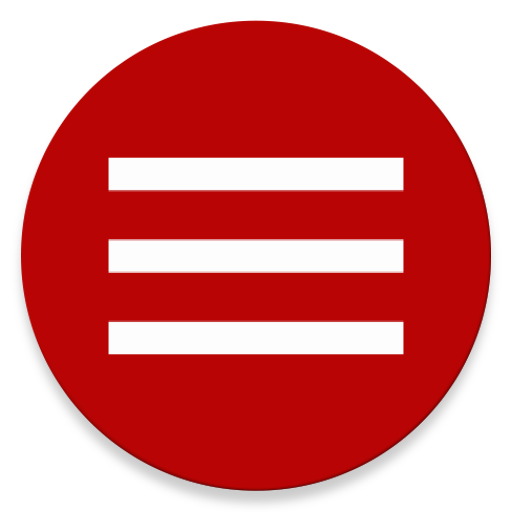
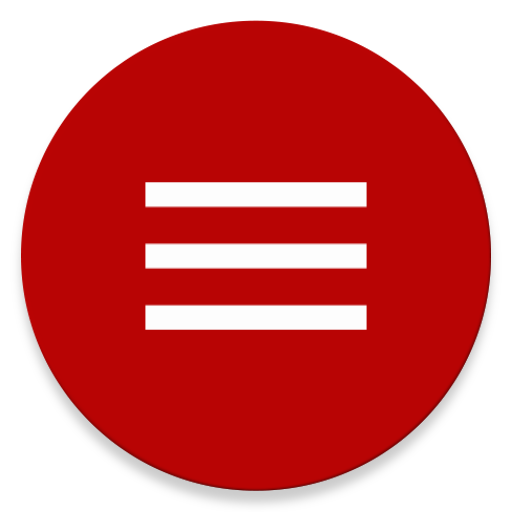
30  6.1.0       启动增加寿康宝鉴页面。       重新配置菜单等按钮图标。       修复属相不能保存BUG。       开关按钮。

Changed region(s): [[0.1875, 0.5938, 0.8125, 0.7188], [0.1875, 0.2812, 0.8125, 0.4062], [0.1875, 0.4688, 0.8125, 0.5312]]

diff --git a/app/src/main/java/com/wang17/religiouscalendar/activity/MainActivity.java b/app/src/main/java/com/wang17/religiouscalendar/activity/MainActivity.java
@@ -14,7 +14,6 @@ import android.graphics.Typeface;
 import android.os.Bundle;
 import android.os.Handler;
 import android.support.annotation.NonNull;
-import android.support.design.widget.FloatingActionButton;
 import android.support.design.widget.NavigationView;
 import android.support.v4.view.GravityCompat;
 import android.support.v4.widget.DrawerLayout;
@@ -85,7 +84,7 @@ import permissions.dispatcher.RuntimePermissions;
 public class MainActivity extends AppCompatActivity implements NavigationView.OnNavigationItemSelectedListener, View.OnClickListener, View.OnTouchListener {
 
     // 视图变量
-    private TextView textView_ganzhi, textView_nongli, textView_fo, button_today,buttonMonth, textViewChijie1, textViewChijie2;
+    private TextView textView_ganzhi, textViewSelectedDay, textView_fo, button_today,buttonMonth, textViewChijie1, textViewChijie2;
     private CalenderGridAdapter calendarAdapter;
     private ImageButton imageButton_leftMenu, imageButton_settting;
     private ImageView imageView_banner, imageView_welcome;
@@ -376,15 +375,15 @@ public class MainActivity extends AppCompatActivity implements NavigationView.On
 
             // button_today
             button_today = (TextView) findViewById(R.id.btnToday);
-//            button_today.setTypeface(fontGF);
+            button_today.setTypeface(fontGF);
             button_today.setOnClickListener(btnToday_OnClickListener);
 
             // 信息栏
 //            yearMonth = (TextView) findViewById(R.id.tvYearMonth);
 //            yangliBig = (TextView) findViewById(R.id.tvYangLiBig);
             buttonMonth = (TextView) findViewById(R.id.textView_select_month);
-//            selectMonth.setTypeface(fontGF);
-            buttonMonth.setText(currentMonth+1+"月");
+            buttonMonth.setTypeface(fontGF);
+            setButtonMonthText();
             buttonMonth.setOnClickListener(btnCurrentMonth_OnClickListener);
 
 
@@ -407,7 +406,8 @@ public class MainActivity extends AppCompatActivity implements NavigationView.On
                 }
             });
 
-            textView_nongli = (TextView) findViewById(R.id.textView_selected_day);
+            textViewSelectedDay = (TextView) findViewById(R.id.textView_selected_day);
+//            textViewSelectedDay.setTypeface(fontGF);
             textView_ganzhi = (TextView) findViewById(R.id.tvGanZhi);
             layout_religious = (LinearLayout) findViewById(R.id.linearReligious);
 
@@ -436,6 +436,10 @@ public class MainActivity extends AppCompatActivity implements NavigationView.On
         } catch (Exception ex) {
             _Helper.printExceptionSycn(MainActivity.this, uiHandler, ex);
         }
+    }
+
+    private void setButtonMonthText() {
+        buttonMonth.setText(currentMonth+1+"月");
     }
 
     private void initRecordPart() {
@@ -767,7 +771,7 @@ public class MainActivity extends AppCompatActivity implements NavigationView.On
             if (calendarItem == null) return;
 //        yearMonth.setText(currentYear + "." + format(currentMonth + 1));
 //        yangliBig.setText(seletedDateTime.getDay() + "");
-            textView_nongli.setText(_String.concat(calendarItem.getYangLi().getYear(), "年", calendarItem.getYangLi().getMonth() + 1, "月", calendarItem.getYangLi().getDay(), "日"));
+            textViewSelectedDay.setText(_String.concat(calendarItem.getYangLi().getYear(), "年", calendarItem.getYangLi().getMonth() + 1, "月", calendarItem.getYangLi().getDay(), "日"));
             try {
                 GanZhi gz = new GanZhi(calendarItem.getYangLi(), this.solarTermMap);
                 textView_ganzhi.setText(_String.concat(gz.getTianGanYear(), gz.getDiZhiYear(), "年 ",
@@ -1166,7 +1170,7 @@ public class MainActivity extends AppCompatActivity implements NavigationView.On
             if (monthHasChanged) {
                 currentYear = year;
                 currentMonth = month;
-                buttonMonth.setText(currentMonth+1+"月");
+                setButtonMonthText();
                 refreshCalendarWithDialog(_String.concat("正在加载", currentYear, "年", currentMonth + 1, "月份", "戒期信息。"));
             }
 

diff --git a/app/src/main/java/com/wang17/religiouscalendar/activity/SettingActivity.java b/app/src/main/java/com/wang17/religiouscalendar/activity/SettingActivity.java
@@ -488,21 +488,22 @@ public class SettingActivity extends AppCompatActivity implements OnActionFragme
 
             }
         });
-        spinner_welcome.setOnItemSelectedListener(new AdapterView.OnItemSelectedListener() {
-                                                      @Override
-                                                      public void onItemSelected(AdapterView<?> parent, View view, int position, long id) {
-                                                          Setting setting = dataContext.getSetting(Setting.KEYS.welcome, 0);
-                                                          if (!setting.getValue().equals(position + "")) {
-                                                              dataContext.editSetting(Setting.KEYS.welcome, spinner_welcome.getSelectedItemPosition());
-                                                              snackbarSaved();
-                                                          }
-                                                      }
+        spinner_welcome.setOnItemSelectedListener(
+                new AdapterView.OnItemSelectedListener() {
+                    @Override
+                    public void onItemSelected(AdapterView<?> parent, View view, int position, long id) {
+                        Setting setting = dataContext.getSetting(Setting.KEYS.welcome, 0);
+                        if (!setting.getValue().equals(position + "")) {
+                            dataContext.editSetting(Setting.KEYS.welcome, spinner_welcome.getSelectedItemPosition());
+                            snackbarSaved();
+                        }
+                    }
 
-                                                      @Override
-                                                      public void onNothingSelected(AdapterView<?> parent) {
+                    @Override
+                    public void onNothingSelected(AdapterView<?> parent) {
 
-                                                      }
-                                                  }
+                    }
+                }
 
         );
         spinner_duration.setOnItemSelectedListener(new AdapterView.OnItemSelectedListener() {
